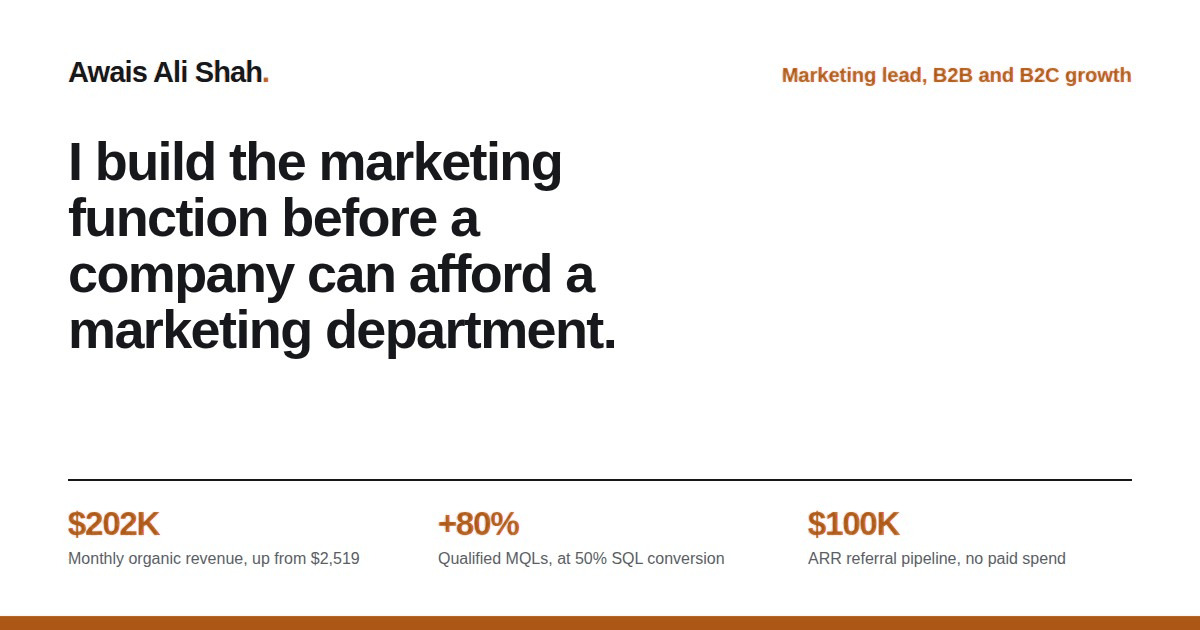
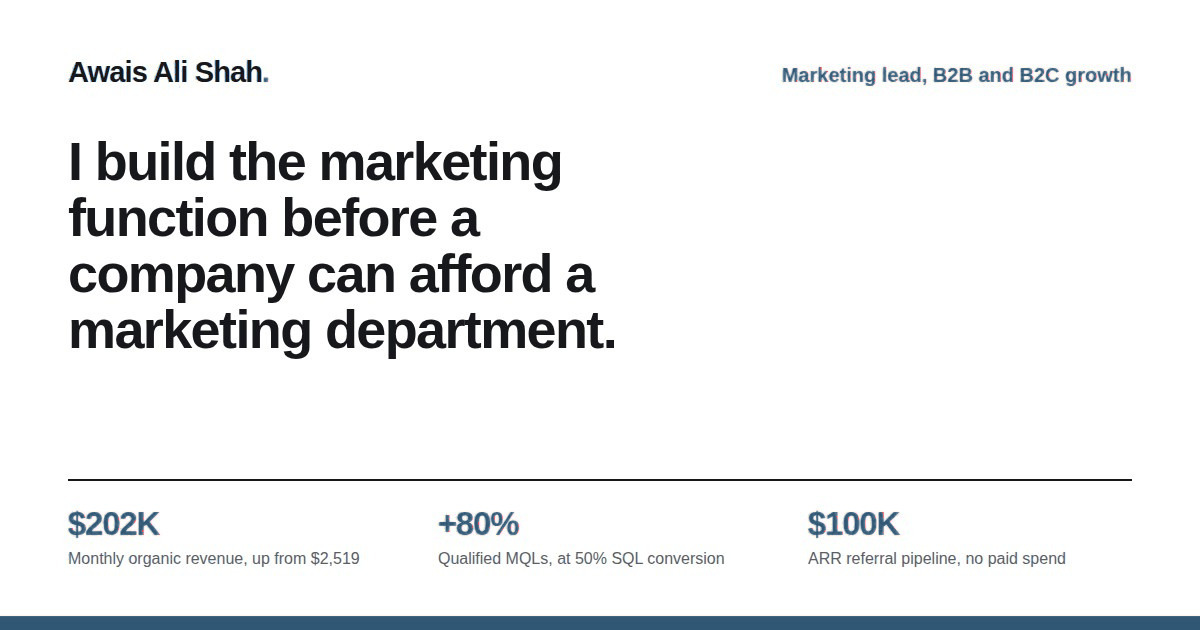
Slate blue accent, used once per page
The orange was too warm and too present. The accent is now slate blue,
#2F5673, with #28495F for accent text on the paper ground and a light
#9DB8CF for the accent on black bands, where the base tone would sink.
Every pairing clears WCAG AA: white on the accent 7.78, accent text on
paper 8.74, the light tone on black 8.70.

Coverage is dialled back to one full accent band per page: the closing
call to action. The home and contact heroes are black bands now, and
the roles block moves to sand so two dark bands never sit together. Its
rules and labels flip with the band it sits on.

Also removes the line after "The roles I am hired for.", as asked for
earlier: it was not in the supplied homepage copy.

Share card recoloured to match.

Claude-Session: https://claude.ai/code/session_01BHqW8DqaxmTMBYP7fNcvFA

diff --git a/assets/css/site.css b/assets/css/site.css
@@ -4,11 +4,12 @@
 
 :root{
   /* Four colours carry the whole site: a warm paper ground, near-black,
-     one burnt-orange accent used sparingly, and a warm grey. Everything else
+     one slate-blue accent used sparingly, and a warm grey. Everything else
      is a tint of those, so nothing competes for attention. */
-  --accent:#ac5715;        /* backgrounds: white body copy clears AA on it */
-  --accent-ink:#9c4d11;    /* accent as text on the paper ground, clears AA */
-  --accent-deep:#8a4310;
+  --accent:#2f5673;        /* backgrounds: white body copy clears AA on it */
+  --accent-ink:#28495f;    /* accent as text on the paper ground, clears AA */
+  --accent-deep:#1f3a4c;
+  --accent-lite:#9db8cf;   /* the accent on a black band, where it must lift */
   --ink:#16171a;
   --paper:#f7f5f2;
   --sand:#ebe7e1;
@@ -67,7 +68,7 @@ p:last-child{margin-bottom:0}
 .sec{padding:var(--step) 0}
 .sec-paper{background:var(--paper);color:var(--ink)}
 .sec-ink{background:var(--ink);color:#eeebe6}
-.sec-accent{background:var(--accent);color:#fdf7f1}
+.sec-accent{background:var(--accent);color:#f4f8fb}
 .sec-sand{background:var(--sand);color:var(--ink)}
 
 .sec-ink h1,.sec-ink h2,.sec-ink h3,.sec-ink h4,
@@ -85,13 +86,13 @@ p:last-child{margin-bottom:0}
   font-size:var(--t-meta);font-weight:800;letter-spacing:0.14em;
   text-transform:uppercase;margin:0 0 var(--sp-2);color:var(--accent-ink);
 }
-.sec-ink .kicker{color:#e8a271}
-.sec-accent .kicker{color:#fcecdc}
+.sec-ink .kicker{color:var(--accent-lite)}
+.sec-accent .kicker{color:#dae7f2}
 
 .lead{font-size:var(--t-lead);line-height:1.35;font-weight:600;letter-spacing:-0.02em;max-width:24ch}
 .body{font-size:var(--t-body);line-height:1.6;max-width:62ch;color:inherit}
 .body-muted{color:var(--ink-2)}
-.sec-ink .body-muted,.sec-accent .body-muted{color:#c3bdb4}
+.sec-ink .body-muted,.sec-accent .body-muted{color:#c2cedb}
 
 /* two column: heading left, supporting copy right */
 .split{display:grid;grid-template-columns:minmax(0,1.25fr) minmax(0,1fr);gap:clamp(40px,6vw,96px);align-items:start}
@@ -135,12 +136,16 @@ p:last-child{margin-bottom:0}
 .sec-accent .btn-line:hover{background:#fff;color:var(--accent);border-color:#fff}
 
 /* ---------- roles, 2 by 2 ---------- */
-.roles{margin-top:var(--sp-4);border-top:1px solid var(--rule-dark)}
+.roles{margin-top:var(--sp-4);border-top:2px solid var(--ink)}
 .roles-grid{display:grid;grid-template-columns:repeat(2,minmax(0,1fr))}
-.role{padding:var(--sp-3) 0;border-bottom:1px solid var(--rule-dark)}
-.role:nth-child(odd){padding-right:clamp(24px,4vw,64px);border-right:1px solid var(--rule-dark)}
+.role{padding:var(--sp-3) 0;border-bottom:1px solid var(--rule)}
+.role:nth-child(odd){padding-right:clamp(24px,4vw,64px);border-right:1px solid var(--rule)}
 .role:nth-child(even){padding-left:clamp(24px,4vw,64px)}
-.role b{display:block;font-size:var(--t-meta);font-weight:800;letter-spacing:0.12em;text-transform:uppercase;color:#e8a271;margin-bottom:12px}
+.role b{display:block;font-size:var(--t-meta);font-weight:800;letter-spacing:0.12em;text-transform:uppercase;color:var(--accent-ink);margin-bottom:12px}
+/* same block on a black band */
+.sec-ink .roles{border-top-color:var(--rule-dark)}
+.sec-ink .role,.sec-ink .role:nth-child(odd){border-color:var(--rule-dark)}
+.sec-ink .role b{color:var(--accent-lite)}
 .role span{display:block;font-size:var(--t-role);font-weight:800;letter-spacing:-0.035em;line-height:1}
 
 /* ---------- proof metrics ---------- */
@@ -174,7 +179,7 @@ p:last-child{margin-bottom:0}
 /* ---------- strategy cards ---------- */
 .cards{margin-top:var(--sp-4);display:grid;grid-template-columns:repeat(2,minmax(0,1fr));gap:clamp(24px,3vw,40px)}
 .card{padding:clamp(32px,4vw,56px)}
-.card-accent{background:var(--accent);color:#fdf7f1}
+.card-accent{background:var(--accent);color:#f4f8fb}
 .card-accent h3{color:#fff}
 .card-sand{background:var(--sand);color:var(--ink)}
 .card-num{font-size:var(--t-meta);font-weight:800;letter-spacing:0.08em;margin:0 0 var(--sp-4);opacity:.85}
@@ -225,11 +230,11 @@ p:last-child{margin-bottom:0}
 .compare-row em{display:none}
 
 .results{margin-top:var(--sp-5);background:var(--ink);color:#eeebe6;padding:clamp(36px,4vw,64px)}
-.results .kicker{color:#e8a271;margin-bottom:var(--sp-3)}
+.results .kicker{color:var(--accent-lite);margin-bottom:var(--sp-3)}
 .results-grid{display:grid;grid-template-columns:repeat(auto-fit,minmax(200px,1fr));border-top:1px solid rgba(255,255,255,.28)}
 .results-grid div{padding:var(--sp-3) clamp(18px,2vw,32px) var(--sp-3) 0}
 .results-grid div + div{border-left:1px solid rgba(255,255,255,.28);padding-left:clamp(18px,2vw,32px)}
-.results-grid b{display:block;font-size:var(--t-num);font-weight:800;letter-spacing:-0.045em;line-height:0.92;color:var(--accent)}
+.results-grid b{display:block;font-size:var(--t-num);font-weight:800;letter-spacing:-0.045em;line-height:0.92;color:var(--accent-lite)}
 .results-grid span{display:block;margin-top:var(--sp-2);font-size:var(--t-meta);font-weight:700;max-width:22ch}
 
 /* Screenshots sit two to a row, every frame the same size, caption beneath.

diff --git a/index.html b/index.html
@@ -35,7 +35,7 @@
 <main>
 
 <!-- 2. HERO -->
-<section class="sec sec-accent hero">
+<section class="sec sec-ink hero">
   <div class="shell">
     <p class="kicker">Senior B2B copywriter</p>
     <h1>Your business + my content = a match made in corporate heaven.</h1>
@@ -53,13 +53,10 @@
 </section>
 
 <!-- 3. ROLES I AM HIRED FOR -->
-<section class="sec sec-ink">
+<section class="sec sec-sand">
   <div class="shell">
     <p class="snum">01</p>
-    <div class="split">
-      <h2>The roles I am hired for.</h2>
-      <p class="body body-muted">I work best with early-stage brands where the founder is still directly involved in growth and the job is to build the function, not inherit one.</p>
-    </div>
+    <h2>The roles I am hired for.</h2>
     <div class="roles">
       <div class="roles-grid">
         <div class="role"><b>Senior</b><span>Copywriter</span></div>

diff --git a/contact.html b/contact.html
@@ -34,7 +34,7 @@
 
 <main>
 
-<section class="sec sec-accent hero">
+<section class="sec sec-ink hero">
   <div class="shell">
     <p class="kicker">Contact</p>
     <h1>Tell me what you are trying to sell.</h1>
